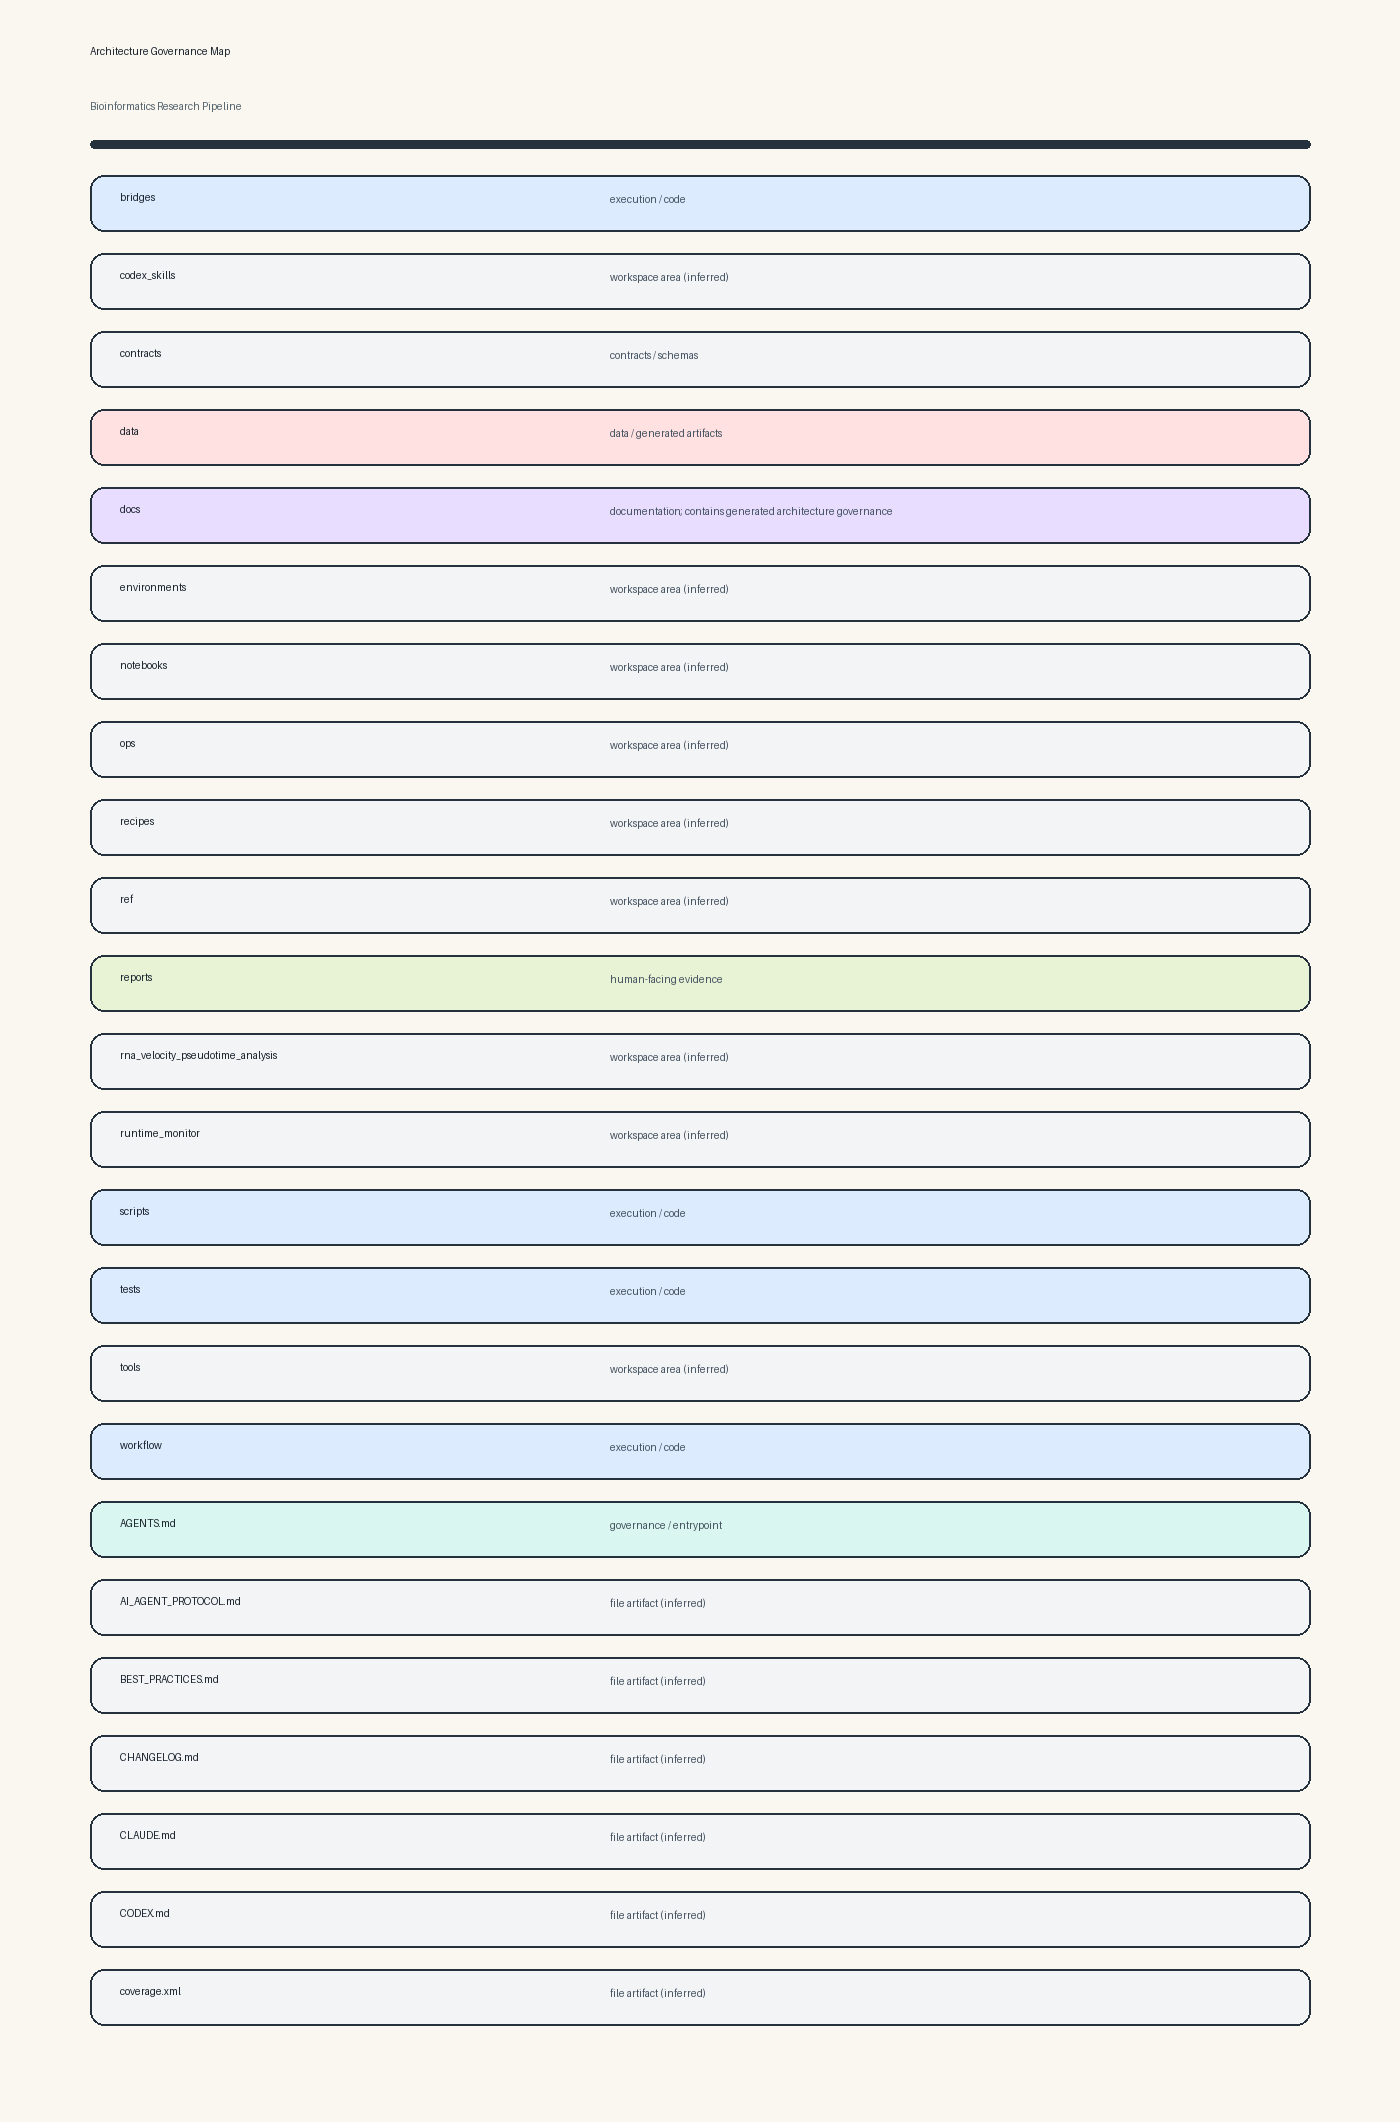
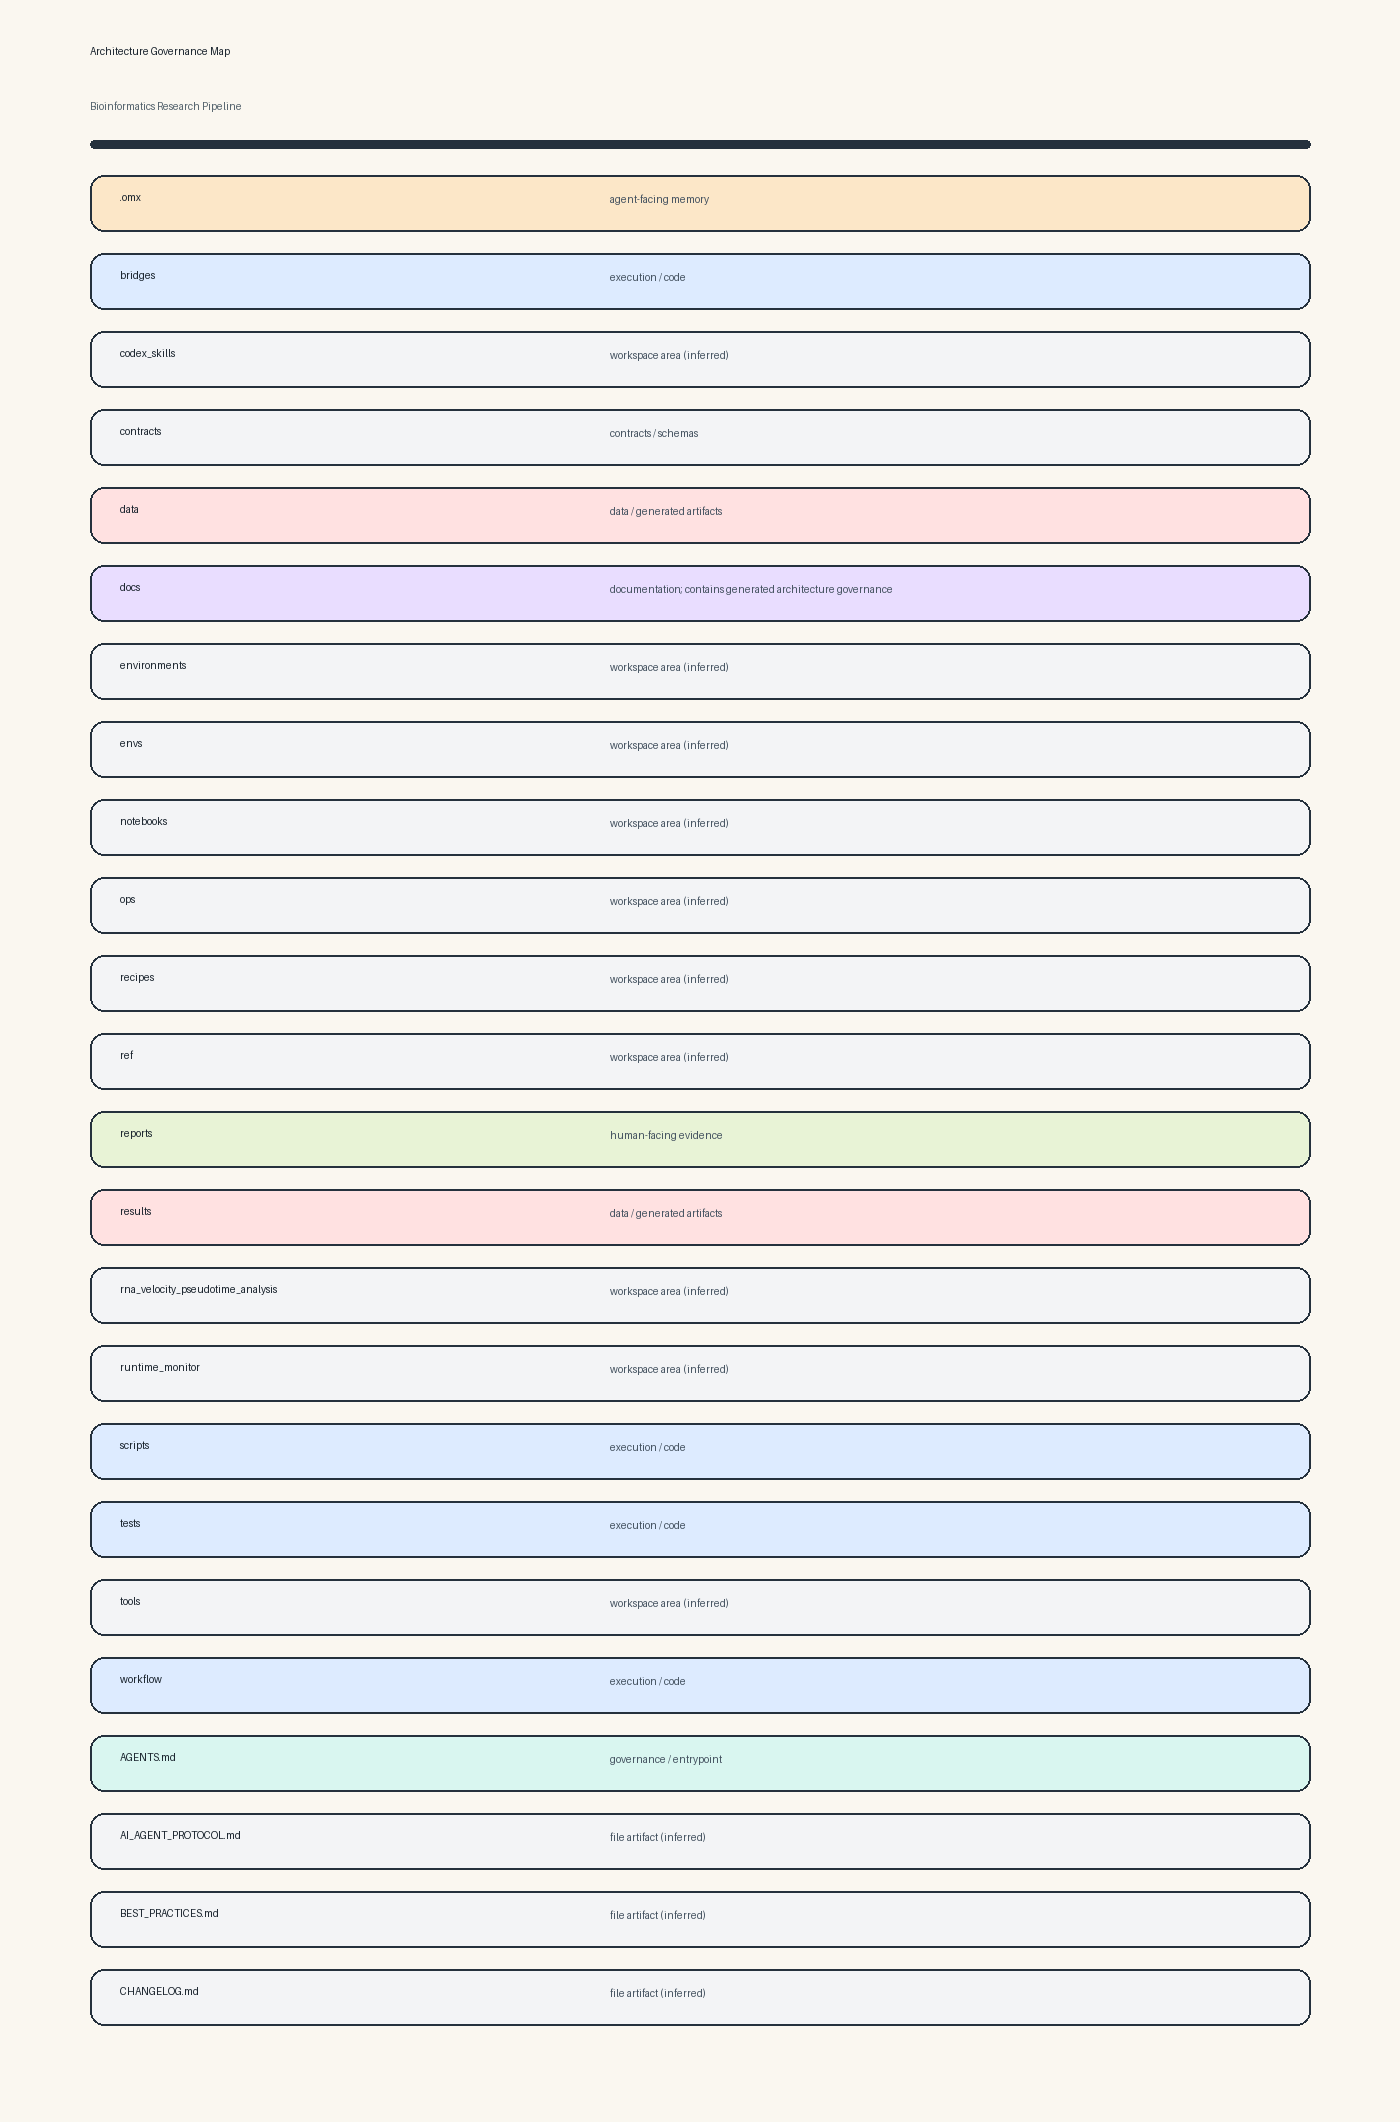
docs(architecture): refresh canonical workspace snapshot

diff --git a/README.md b/README.md
@@ -2871,7 +2871,7 @@ The most recent canonical work is the **wave5 Trevino PCW21** biology-aware vali
 <!-- ARCHITECTURE-GOVERNANCE:START -->
 ## Architecture Governance
 
-Last refreshed: `2026-08-22T13:10:42Z`
+Last refreshed: `2026-08-22T14:05:08Z`
 
 ![Workspace structure](docs/architecture/structure.png)
 
@@ -2879,17 +2879,20 @@ Last refreshed: `2026-08-22T13:10:42Z`
 
 | Surface | Type | Governance role |
 | --- | --- | --- |
+| `.omx` | `dir` | agent-facing memory |
 | `bridges` | `dir` | execution / code |
 | `codex_skills` | `dir` | workspace area (inferred) |
 | `contracts` | `dir` | contracts / schemas |
 | `data` | `dir` | data / generated artifacts |
 | `docs` | `dir` | documentation; contains generated architecture governance |
 | `environments` | `dir` | workspace area (inferred) |
+| `envs` | `dir` | workspace area (inferred) |
 | `notebooks` | `dir` | workspace area (inferred) |
 | `ops` | `dir` | workspace area (inferred) |
 | `recipes` | `dir` | workspace area (inferred) |
 | `ref` | `dir` | workspace area (inferred) |
 | `reports` | `dir` | human-facing evidence |
+| `results` | `dir` | data / generated artifacts |
 | `rna_velocity_pseudotime_analysis` | `dir` | workspace area (inferred) |
 | `runtime_monitor` | `dir` | workspace area (inferred) |
 | `scripts` | `dir` | execution / code |
@@ -2900,9 +2903,6 @@ Last refreshed: `2026-08-22T13:10:42Z`
 | `AI_AGENT_PROTOCOL.md` | `file` | file artifact (inferred) |
 | `BEST_PRACTICES.md` | `file` | file artifact (inferred) |
 | `CHANGELOG.md` | `file` | file artifact (inferred) |
-| `CLAUDE.md` | `file` | file artifact (inferred) |
-| `CODEX.md` | `file` | file artifact (inferred) |
-| `coverage.xml` | `file` | file artifact (inferred) |
 
 ### Required Update Habit
 

diff --git a/docs/architecture/ARCHITECTURE_GOVERNANCE.md b/docs/architecture/ARCHITECTURE_GOVERNANCE.md
@@ -3,7 +3,7 @@
 <!-- ARCHITECTURE-GOVERNANCE:START -->
 ## Architecture Governance
 
-Last refreshed: `2026-08-22T13:10:42Z`
+Last refreshed: `2026-08-22T14:05:08Z`
 
 ![Workspace structure](structure.png)
 
@@ -11,17 +11,20 @@ Last refreshed: `2026-08-22T13:10:42Z`
 
 | Surface | Type | Governance role |
 | --- | --- | --- |
+| `.omx` | `dir` | agent-facing memory |
 | `bridges` | `dir` | execution / code |
 | `codex_skills` | `dir` | workspace area (inferred) |
 | `contracts` | `dir` | contracts / schemas |
 | `data` | `dir` | data / generated artifacts |
 | `docs` | `dir` | documentation; contains generated architecture governance |
 | `environments` | `dir` | workspace area (inferred) |
+| `envs` | `dir` | workspace area (inferred) |
 | `notebooks` | `dir` | workspace area (inferred) |
 | `ops` | `dir` | workspace area (inferred) |
 | `recipes` | `dir` | workspace area (inferred) |
 | `ref` | `dir` | workspace area (inferred) |
 | `reports` | `dir` | human-facing evidence |
+| `results` | `dir` | data / generated artifacts |
 | `rna_velocity_pseudotime_analysis` | `dir` | workspace area (inferred) |
 | `runtime_monitor` | `dir` | workspace area (inferred) |
 | `scripts` | `dir` | execution / code |
@@ -32,9 +35,6 @@ Last refreshed: `2026-08-22T13:10:42Z`
 | `AI_AGENT_PROTOCOL.md` | `file` | file artifact (inferred) |
 | `BEST_PRACTICES.md` | `file` | file artifact (inferred) |
 | `CHANGELOG.md` | `file` | file artifact (inferred) |
-| `CLAUDE.md` | `file` | file artifact (inferred) |
-| `CODEX.md` | `file` | file artifact (inferred) |
-| `coverage.xml` | `file` | file artifact (inferred) |
 
 ### Required Update Habit
 
